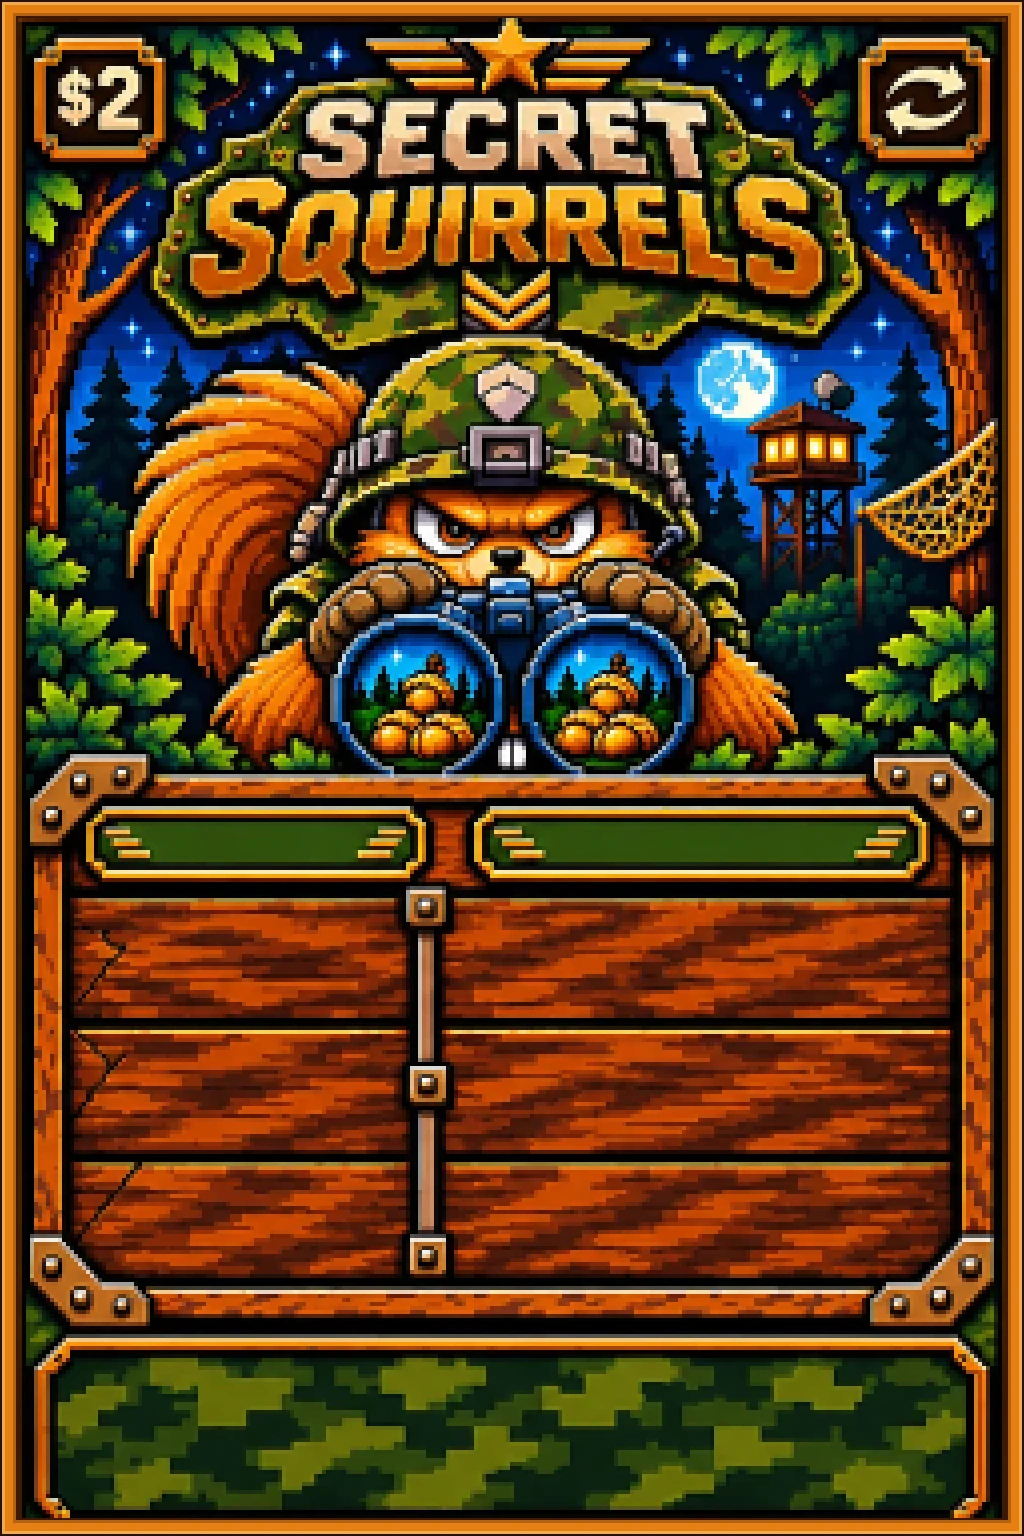
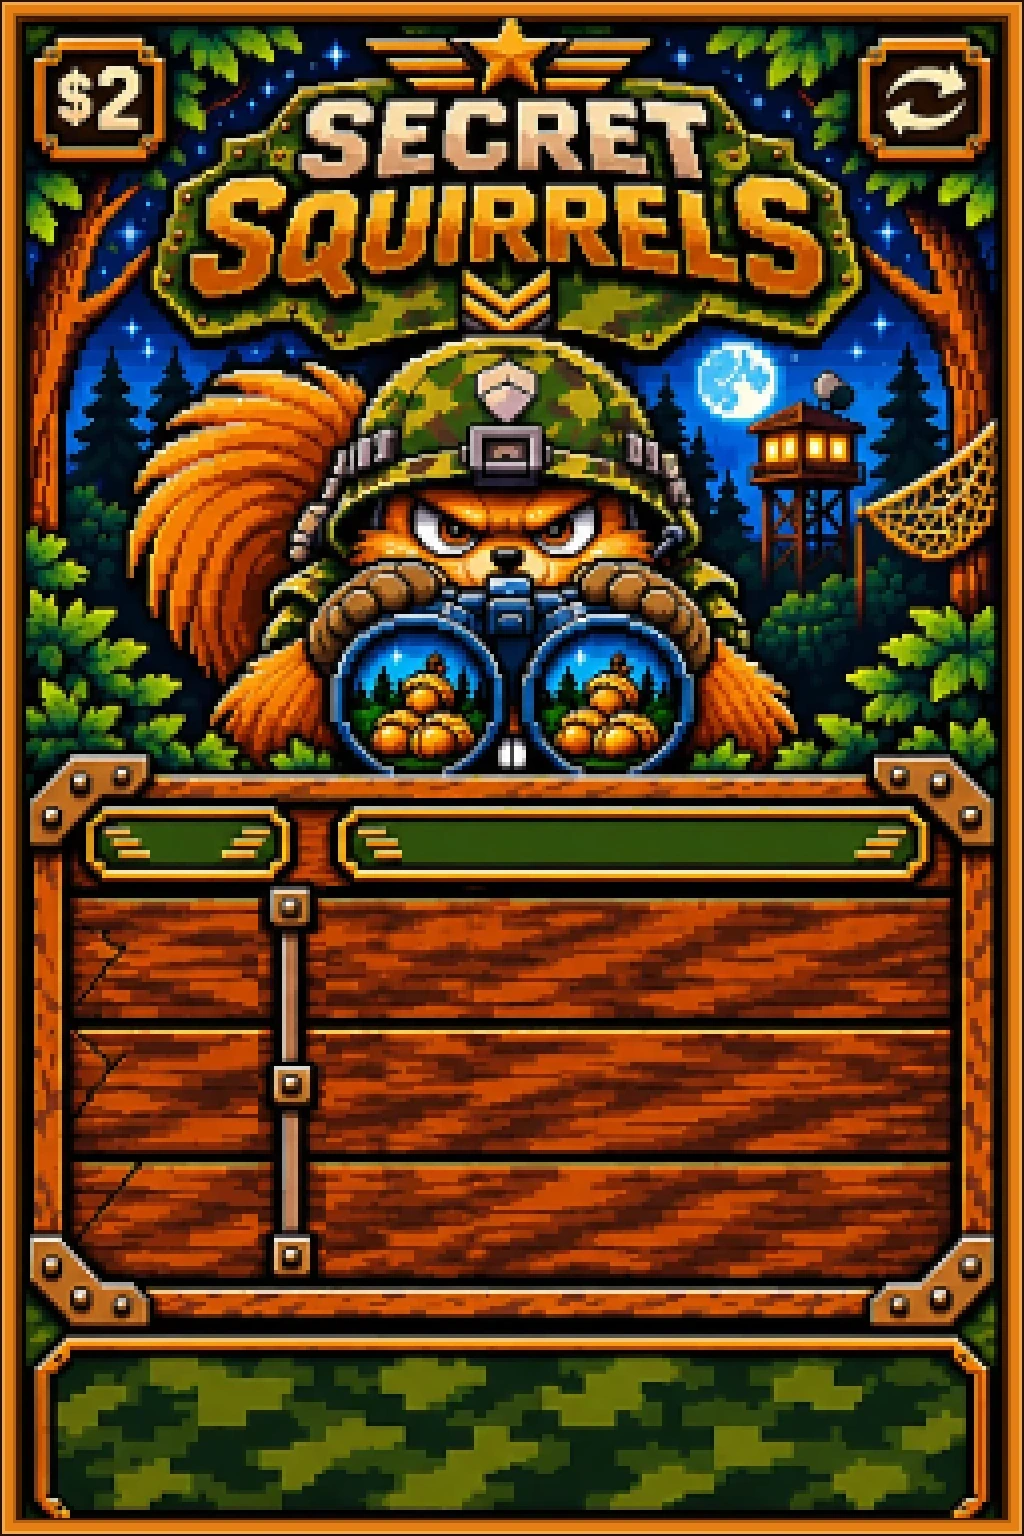
preview (not live): v3.15.2 Secret Squirrels board divider moved to 1 + 3 columns, heading plates resized
Pixel surgery on the approved front art: divider and plates reuse their own pixels; old divider spot filled with matching wood.

Claude-Session: https://claude.ai/code/session_01KmGxi5FWQEcSyM2TCx745j

Changed region(s): [[0.2188, 0.5, 0.5312, 0.8438]]

diff --git a/secret-squirrels.html b/secret-squirrels.html
@@ -27,8 +27,8 @@ main{max-width:520px;margin:0 auto;padding:2px 0 18px;text-align:center}
 <main>
 <div class="stage" id="ticket">
 <div class="inner">
-<img id="front" src="secret-squirrels-front.webp?v=3.15.1" alt="Secret Squirrels two-dollar scratch-off ticket front. Blank wooden playfield; gameplay will be added later." draggable="false">
-<img id="back" src="secret-squirrels-back.webp?v=3.15.1" alt="Secret Squirrels back. Blank wooden instructions area and three military squirrels." draggable="false" hidden>
+<img id="front" src="secret-squirrels-front.webp?v=3.15.2" alt="Secret Squirrels two-dollar scratch-off ticket front. Blank wooden playfield; gameplay will be added later." draggable="false">
+<img id="back" src="secret-squirrels-back.webp?v=3.15.2" alt="Secret Squirrels back. Blank wooden instructions area and three military squirrels." draggable="false" hidden>
 </div>
 <button type="button" class="flip" id="flip" aria-label="Flip ticket to back" title="Flip ticket"></button>
 </div>

diff --git a/index.html b/index.html
@@ -2196,7 +2196,7 @@ function panel(){
  if(!p){
   p=document.createElement('section');p.id='ssPanel';p.setAttribute('aria-label','Secret Squirrels art preview');
   frame=document.createElement('iframe');frame.id='ssFrame';frame.title='Secret Squirrels ticket front and back artwork';
-  frame.src='secret-squirrels.html?v=3.15.1';p.append(frame);
+  frame.src='secret-squirrels.html?v=3.15.2';p.append(frame);
  }
  const hero=document.querySelector('.hero');
  if(hero&&p.previousElementSibling!==hero)hero.after(p);
